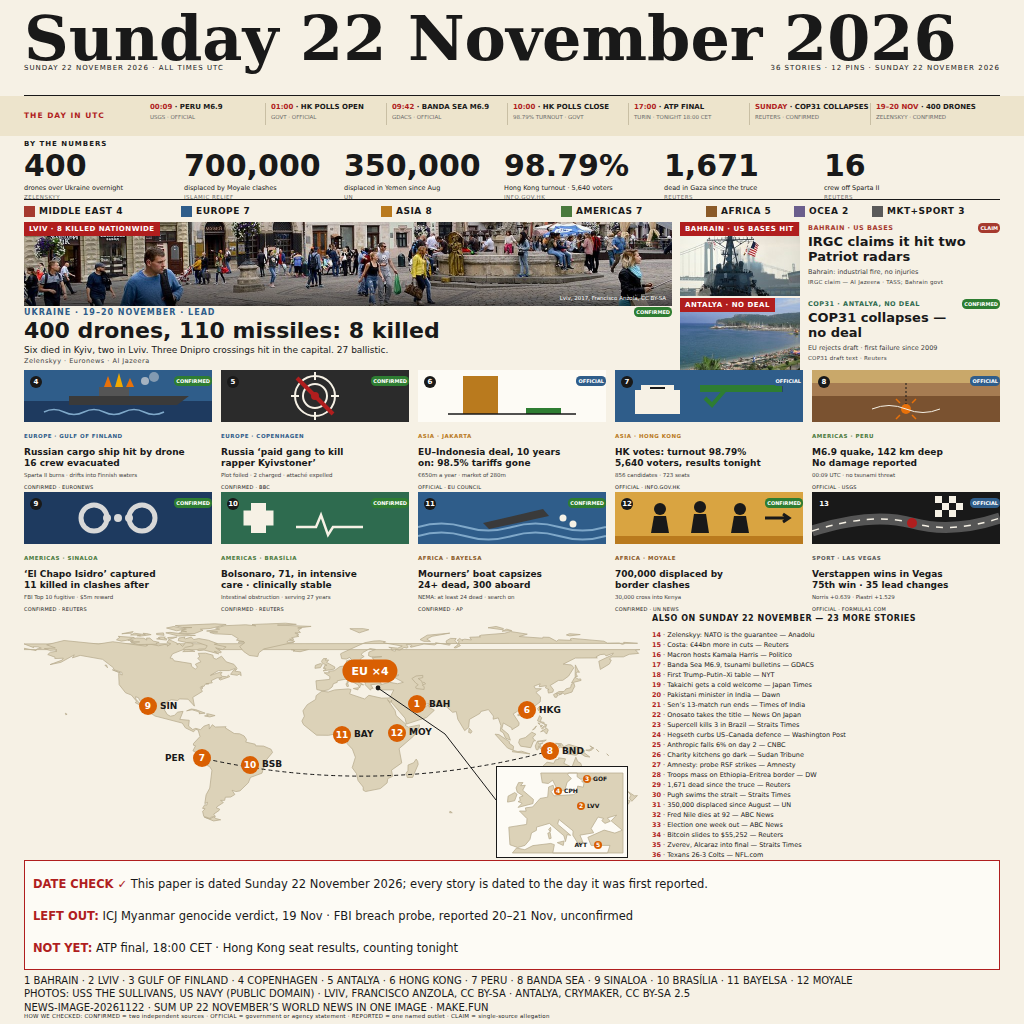
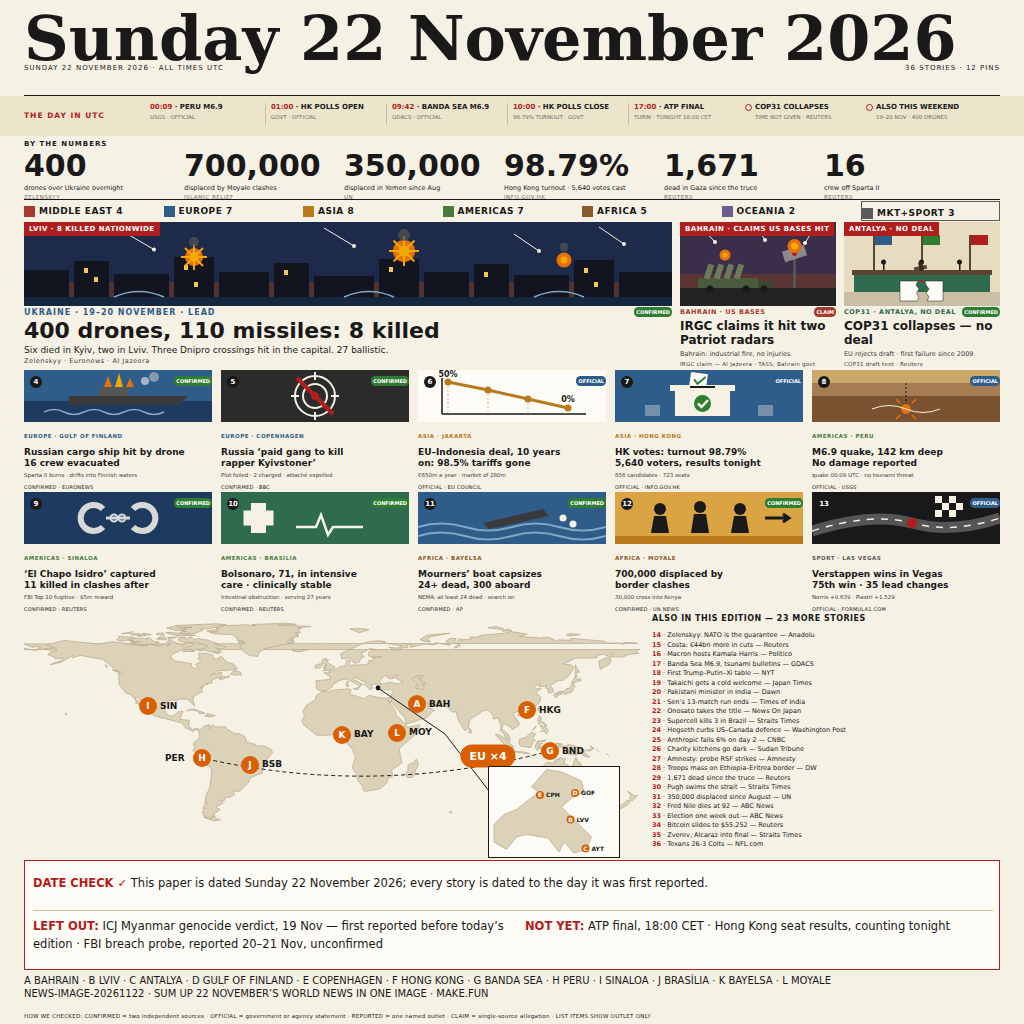
v6: 7 blockers + 10 should-fix — all 3 heroes as event illustrations, pins A-L, one-day timeline, Bahrain hedge, closed badge key, card 8 times, ICJ reason, DATE CHECK two-column, Europe one landmass, shared hero baselines; photos removed

diff --git a/build/front.html b/build/front.html
@@ -31,22 +31,19 @@ body { width:2048px; height:2048px; background:#F6F1E5; font-family:'DejaVu Sans
 .b-rep { background:#9C6E00; }
 .b-claim { background:#A63A2E; }
 .lead { position:absolute; left:48px; top:444px; width:1296px; height:296px; }
-.lead img { width:1296px; height:168px; display:block; object-fit:cover; }
-.lead .scrim { position:absolute; left:0; top:108px; width:1296px; height:60px; background:linear-gradient(to bottom, rgba(0,0,0,0), rgba(0,0,0,0.55)); }
-.lead .credit { position:absolute; right:12px; top:146px; font-size:11px; color:#FFFFFF; }
+.lead svg { display:block; }
 .lead .kick { position:absolute; left:0; top:172px; font-size:16px; font-weight:bold; letter-spacing:2px; white-space:nowrap; }
 .lead .bdg { top:170px; right:0; }
 .lead .head { position:absolute; left:0; top:194px; font-size:44px; font-weight:bold; line-height:48px; white-space:nowrap; }
 .lead .dek { position:absolute; left:0; top:246px; font-size:18px; white-space:nowrap; }
 .lead .src { position:absolute; left:0; top:270px; font-size:13px; color:#404040; letter-spacing:1px; white-space:nowrap; }
-.sec { position:absolute; width:240px; height:148px; }
-.sec img { width:240px; height:148px; display:block; object-fit:cover; }
-.sect { position:absolute; width:384px; height:148px; }
-.sect .kick { position:absolute; left:0; top:4px; font-size:13px; font-weight:bold; letter-spacing:1px; white-space:nowrap; }
-.sect .bdg { top:2px; right:0; }
-.sect .head { position:absolute; left:0; top:24px; font-size:26px; font-weight:bold; line-height:30px; }
-.sect .det { position:absolute; left:0; top:92px; font-size:13px; color:#404040; white-space:nowrap; }
-.sect .src { position:absolute; left:0; top:114px; font-size:11px; color:#404040; letter-spacing:0.5px; white-space:nowrap; }
+.rhero { position:absolute; width:312px; height:296px; }
+.rhero svg { display:block; }
+.rhero .kick { position:absolute; left:0; top:172px; font-size:13px; font-weight:bold; letter-spacing:1px; white-space:nowrap; }
+.rhero .bdg { top:170px; right:0; }
+.rhero .head { position:absolute; left:0; top:194px; width:312px; font-size:24px; font-weight:bold; line-height:28px; }
+.rhero .det { position:absolute; left:0; top:256px; font-size:13px; color:#404040; white-space:nowrap; }
+.rhero .src { position:absolute; left:0; top:278px; font-size:11px; color:#404040; letter-spacing:0.5px; white-space:nowrap; }
 .bcard { position:absolute; width:376px; height:244px; }
 .bcard svg { display:block; }
 .bcard .nb { position:absolute; left:12px; top:12px; width:24px; height:24px; border-radius:50%; background:#191919; color:#FFFFFF; font-size:14px; font-weight:bold; text-align:center; line-height:24px; }
@@ -65,8 +62,9 @@ body { width:2048px; height:2048px; background:#F6F1E5; font-family:'DejaVu Sans
 .dc { position:absolute; left:48px; top:1720px; width:1952px; height:220px; border:3px solid #B01E1E; background:#FDFBF5; }
 .dc .l { position:absolute; left:16px; font-size:23px; white-space:nowrap; }
 .dc .l b { color:#B01E1E; }
-.dc .col { position:absolute; top:104px; width:950px; font-size:22px; line-height:32px; }
+.dc .col { position:absolute; top:112px; width:950px; font-size:23px; line-height:36px; }
 .dc .col b { color:#B01E1E; }
+.dc .rule { position:absolute; left:16px; top:98px; width:1920px; border-top:1px solid #C9BFA4; }
 .foot { position:absolute; left:48px; font-size:20px; line-height:32px; white-space:nowrap; }
 </style></head><body>
 
@@ -108,29 +106,29 @@ body { width:2048px; height:2048px; background:#F6F1E5; font-family:'DejaVu Sans
 
 <!-- HEROES 444-740 -->
 <div class="lead">
-  <img src="lead_lviv.jpg" alt="Lviv street">
+  <svg width="1296" height="168" viewBox="0 0 1296 168"><rect width="1296" height="168" fill="#1E2A4A"/><rect y="120" width="1296" height="48" fill="#7A3B1E" opacity="0.55"/><g fill="#12141F"><rect x="0" y="96" width="90" height="72"/><rect x="100" y="78" width="70" height="90"/><rect x="180" y="104" width="110" height="64"/><rect x="300" y="70" width="80" height="98"/><rect x="390" y="100" width="100" height="68"/><rect x="500" y="82" width="70" height="86"/><rect x="580" y="108" width="120" height="60"/><rect x="710" y="74" width="80" height="94"/><rect x="800" y="100" width="90" height="68"/><rect x="900" y="84" width="70" height="84"/><rect x="980" y="106" width="110" height="62"/><rect x="1100" y="76" width="80" height="92"/><rect x="1190" y="100" width="106" height="68"/></g><g fill="#F2C94C"><rect x="120" y="92" width="8" height="10"/><rect x="140" y="110" width="8" height="10"/><rect x="320" y="86" width="8" height="10"/><rect x="340" y="120" width="8" height="10"/><rect x="520" y="96" width="8" height="10"/><rect x="730" y="90" width="8" height="10"/><rect x="920" y="100" width="8" height="10"/><rect x="1120" y="92" width="8" height="10"/><rect x="1140" y="120" width="8" height="10"/></g><rect y="150" width="1296" height="18" fill="#16283F"/><g stroke="#7FA8C9" stroke-width="3" fill="none"><path d="M180 150 Q230 128 280 150"/><path d="M640 150 Q690 128 740 150"/><path d="M1020 150 Q1070 128 1120 150"/></g><g stroke="#F6F1E5" stroke-width="2"><line x1="200" y1="20" x2="260" y2="55"/><line x1="600" y1="12" x2="660" y2="48"/><line x1="980" y1="24" x2="1030" y2="58"/><line x1="1150" y1="10" x2="1200" y2="44"/></g><g fill="#F6F1E5"><circle cx="260" cy="55" r="4"/><circle cx="660" cy="48" r="4"/><circle cx="1030" cy="58" r="4"/><circle cx="1200" cy="44" r="4"/></g><g><circle cx="340" cy="70" r="18" fill="#E8710A"/><circle cx="340" cy="70" r="9" fill="#F2A900"/><path d="M340 44 L340 96 M314 70 L366 70 M322 52 L358 88 M358 52 L322 88" stroke="#F2A900" stroke-width="4"/><circle cx="760" cy="58" r="22" fill="#E8710A"/><circle cx="760" cy="58" r="11" fill="#F2A900"/><path d="M760 28 L760 88 M730 58 L790 58 M739 37 L781 79 M781 37 L739 79" stroke="#F2A900" stroke-width="4"/><circle cx="1080" cy="76" r="15" fill="#E8710A"/><circle cx="1080" cy="76" r="7" fill="#F2A900"/></g><g fill="#555555" opacity="0.7"><circle cx="340" cy="40" r="10"/><circle cx="760" cy="26" r="12"/><circle cx="1080" cy="50" r="9"/></g></svg>
   <div class="banner">LVIV &middot; 8 KILLED NATIONWIDE</div>
-  <div class="scrim"></div>
-  <div class="credit">Lviv, 2017, Francisco Anzola, CC BY-SA</div>
   <div class="kick" style="color:#2F5D8A;">UKRAINE &middot; 19&ndash;20 NOVEMBER &middot; LEAD</div>
   <div class="bdg b-conf">CONFIRMED</div>
   <div class="head">400 drones, 110 missiles: 8 killed</div>
   <div class="dek">Six died in Kyiv, two in Lviv. Three Dnipro crossings hit in the capital. 27 ballistic.</div>
   <div class="src">Zelenskyy &middot; Euronews &middot; Al Jazeera</div>
 </div>
-<div class="sec" style="left:1360px; top:444px;"><img src="sec_bahrain.jpg" alt="USS The Sullivans"><div class="banner">BAHRAIN &middot; US BASES HIT</div></div>
-<div class="sect" style="left:1616px; top:444px;">
+<div class="rhero" style="left:1360px; top:444px;">
+  <svg width="312" height="168" viewBox="0 0 312 168"><rect width="312" height="168" fill="#3A2E4A"/><rect y="104" width="312" height="64" fill="#7A3B1E" opacity="0.5"/><rect y="132" width="312" height="36" fill="#232323"/><g><rect x="36" y="112" width="120" height="20" fill="#4A5A3D"/><rect x="156" y="118" width="28" height="14" fill="#3A4A2E"/><circle cx="60" cy="134" r="7" fill="#191919"/><circle cx="132" cy="134" r="7" fill="#191919"/><circle cx="168" cy="134" r="7" fill="#191919"/><g fill="#6B7A5A"><rect x="52" y="84" width="12" height="30" transform="rotate(18 58 99)"/><rect x="72" y="84" width="12" height="30" transform="rotate(18 78 99)"/><rect x="92" y="84" width="12" height="30" transform="rotate(18 98 99)"/><rect x="112" y="84" width="12" height="30" transform="rotate(18 118 99)"/></g></g><g><rect x="226" y="70" width="6" height="62" fill="#555555"/><rect x="206" y="52" width="46" height="22" fill="#8A8A8A" transform="rotate(-18 229 63)"/><circle cx="229" cy="63" r="5" fill="#B01E1E"/></g><g stroke="#F6F1E5" stroke-width="2"><line x1="40" y1="8" x2="70" y2="40"/><line x1="150" y1="4" x2="170" y2="36"/><line x1="270" y1="10" x2="250" y2="42"/></g><g fill="#F6F1E5"><circle cx="70" cy="40" r="4"/><circle cx="170" cy="36" r="4"/><circle cx="250" cy="42" r="4"/></g><g><circle cx="229" cy="48" r="14" fill="#E8710A"/><circle cx="229" cy="48" r="7" fill="#F2A900"/><circle cx="90" cy="66" r="11" fill="#E8710A"/><circle cx="90" cy="66" r="5" fill="#F2A900"/></g></svg>
+  <div class="banner">BAHRAIN &middot; CLAIMS US BASES HIT</div>
   <div class="kick" style="color:#A63A2E;">BAHRAIN &middot; US BASES</div>
   <div class="bdg b-claim">CLAIM</div>
-  <div class="head">IRGC claims it hit two<br>Patriot radars</div>
+  <div class="head">IRGC claims it hit two Patriot radars</div>
   <div class="det">Bahrain: industrial fire, no injuries</div>
   <div class="src">IRGC claim &mdash; Al Jazeera &middot; TASS; Bahrain govt</div>
 </div>
-<div class="sec" style="left:1360px; top:596px;"><img src="sec_cop31.jpg" alt="Antalya coast"><div class="banner">ANTALYA &middot; NO DEAL</div></div>
-<div class="sect" style="left:1616px; top:596px;">
+<div class="rhero" style="left:1688px; top:444px;">
+  <svg width="312" height="168" viewBox="0 0 312 168"><rect width="312" height="168" fill="#E8DCC0"/><rect y="140" width="312" height="28" fill="#C9BFA4"/><g><rect x="58" y="26" width="4" height="70" fill="#5A4632"/><rect x="62" y="26" width="34" height="20" fill="#2F5D8A"/><rect x="154" y="26" width="4" height="70" fill="#5A4632"/><rect x="158" y="26" width="34" height="20" fill="#2E7D32"/><rect x="250" y="26" width="4" height="70" fill="#5A4632"/><rect x="254" y="26" width="34" height="20" fill="#B01E1E"/></g><rect x="16" y="96" width="280" height="10" fill="#5A4632"/><rect x="20" y="106" width="272" height="34" fill="#2E6B4F"/><g fill="#191919"><rect x="78" y="82" width="3" height="14"/><circle cx="79" cy="80" r="5"/><rect x="154" y="82" width="3" height="14"/><circle cx="155" cy="80" r="5"/><rect x="230" y="82" width="3" height="14"/><circle cx="231" cy="80" r="5"/></g><g><rect x="140" y="88" width="26" height="8" fill="#5A4632" transform="rotate(-12 153 92)"/><rect x="150" y="80" width="8" height="18" fill="#3A2A1A" transform="rotate(-12 154 89)"/></g><g fill="#FDFBF5" stroke="#191919" stroke-width="1"><path d="M112 118 L148 118 L144 126 L150 134 L145 142 L150 150 L146 158 L112 158 Z"/><path d="M162 118 L198 118 L198 158 L166 158 L170 150 L164 142 L170 134 L164 126 Z"/></g><path d="M150 118 L162 118" stroke="#B01E1E" stroke-width="3"/></svg>
+  <div class="banner">ANTALYA &middot; NO DEAL</div>
   <div class="kick" style="color:#2E6B4F;">COP31 &middot; ANTALYA, NO DEAL</div>
   <div class="bdg b-conf">CONFIRMED</div>
-  <div class="head">COP31 collapses &mdash;<br>no deal</div>
+  <div class="head">COP31 collapses &mdash; no deal</div>
   <div class="det">EU rejects draft &middot; first failure since 2009</div>
   <div class="src">COP31 draft text &middot; Reuters</div>
 </div>
@@ -153,7 +151,7 @@ body { width:2048px; height:2048px; background:#F6F1E5; font-family:'DejaVu Sans
 <div class="so">CONFIRMED &middot; BBC</div>
 </div>
 <div class="bcard" style="left:836px; top:740px;">
-<svg width="376" height="104" viewBox="0 0 376 104"><rect width="376" height="104" fill="#FDFBF5"/><rect x="90" y="12" width="70" height="76" fill="#B97A1E"/><rect x="216" y="76" width="70" height="12" fill="#2E7D32"/><path d="M60 88 L316 88" stroke="#191919" stroke-width="3"/></svg>
+<svg width="376" height="104" viewBox="0 0 376 104"><rect width="376" height="104" fill="#FDFBF5"/><path d="M48 88 L336 88" stroke="#191919" stroke-width="3"/><path d="M48 16 L48 88" stroke="#191919" stroke-width="3"/><path d="M60 24 L60 88 M140 40 L140 88 M220 58 L220 88 M300 76 L300 88" stroke="#B97A1E" stroke-width="2" stroke-dasharray="4 4" opacity="0.5"/><path d="M60 24 L140 40 L220 58 L300 76" stroke="#B97A1E" stroke-width="6" fill="none"/><g fill="#B97A1E"><circle cx="60" cy="24" r="7"/><circle cx="140" cy="40" r="7"/><circle cx="220" cy="58" r="7"/><circle cx="300" cy="76" r="7"/></g><g font-family="DejaVu Sans" font-size="16" font-weight="bold" fill="#191919"><text x="60" y="14" text-anchor="middle">50%</text><text x="300" y="64" text-anchor="middle">0%</text></g></svg>
 <div class="nb">6</div><div class="bdg b-off">OFFICIAL</div>
 <div class="kick" style="color:#B97A1E;">ASIA &middot; JAKARTA</div>
 <div class="head">EU&ndash;Indonesia deal, 10 years<br>on: 98.5% tariffs gone</div>
@@ -161,7 +159,7 @@ body { width:2048px; height:2048px; background:#F6F1E5; font-family:'DejaVu Sans
 <div class="so">OFFICIAL &middot; EU COUNCIL</div>
 </div>
 <div class="bcard" style="left:1230px; top:740px;">
-<svg width="376" height="104" viewBox="0 0 376 104"><rect width="376" height="104" fill="#2F5D8A"/><rect x="40" y="40" width="90" height="48" fill="#F6F1E5"/><rect x="52" y="30" width="66" height="12" fill="#F6F1E5"/><rect x="70" y="34" width="30" height="4" fill="#191919"/><rect x="170" y="30" width="166" height="14" fill="#191919" opacity="0.35"/><rect x="170" y="30" width="164" height="14" fill="#2E7D32"/><path d="M180 56 l14 14 l26 -30" stroke="#2E7D32" stroke-width="8" fill="none"/></svg>
+<svg width="376" height="104" viewBox="0 0 376 104"><rect width="376" height="104" fill="#2F5D8A"/><rect x="150" y="6" width="34" height="30" fill="#FDFBF5" transform="rotate(8 167 21)"/><path d="M158 20 l8 8 l14 -16" stroke="#2E7D32" stroke-width="4" fill="none" transform="rotate(8 167 21)"/><rect x="110" y="30" width="130" height="12" fill="#F6F1E5"/><rect x="150" y="32" width="50" height="4" fill="#191919"/><rect x="120" y="42" width="110" height="50" fill="#F6F1E5"/><circle cx="175" cy="67" r="17" fill="#2E7D32"/><path d="M166 67 l7 7 l13 -14" stroke="#F6F1E5" stroke-width="5" fill="none"/><rect x="60" y="70" width="30" height="22" fill="#F6F1E5" opacity="0.35"/><rect x="286" y="70" width="30" height="22" fill="#F6F1E5" opacity="0.35"/></svg>
 <div class="nb">7</div><div class="bdg b-off">OFFICIAL</div>
 <div class="kick" style="color:#B97A1E;">ASIA &middot; HONG KONG</div>
 <div class="head">HK votes: turnout 98.79%<br>5,640 voters, results tonight</div>
@@ -179,7 +177,7 @@ body { width:2048px; height:2048px; background:#F6F1E5; font-family:'DejaVu Sans
 
 <!-- BIG CARDS 9-13 : 984-1228 -->
 <div class="bcard" style="left:48px; top:984px;">
-<svg width="376" height="104" viewBox="0 0 376 104"><rect width="376" height="104" fill="#1E3A5F"/><circle cx="140" cy="52" r="26" fill="none" stroke="#D8D8D8" stroke-width="10"/><circle cx="236" cy="52" r="26" fill="none" stroke="#D8D8D8" stroke-width="10"/><circle cx="166" cy="52" r="8" fill="#D8D8D8"/><circle cx="188" cy="52" r="8" fill="#D8D8D8"/><circle cx="210" cy="52" r="8" fill="#D8D8D8"/></svg>
+<svg width="376" height="104" viewBox="0 0 376 104"><rect width="376" height="104" fill="#1E3A5F"/><path d="M158,34 A26,26 0 1 0 158,70" stroke="#D8D8D8" stroke-width="12" fill="none"/><path d="M218,34 A26,26 0 1 1 218,70" stroke="#D8D8D8" stroke-width="12" fill="none"/><path d="M164,52 L212,52" stroke="#D8D8D8" stroke-width="6"/><g stroke="#D8D8D8" stroke-width="4" fill="none"><circle cx="180" cy="52" r="7"/><circle cx="196" cy="52" r="7"/></g></svg>
 <div class="nb">9</div><div class="bdg b-conf">CONFIRMED</div>
 <div class="kick" style="color:#4A7A3D;">AMERICAS &middot; SINALOA</div>
 <div class="head">&lsquo;El Chapo Isidro&rsquo; captured<br>11 killed in clashes after</div>
@@ -228,7 +226,7 @@ body { width:2048px; height:2048px; background:#F6F1E5; font-family:'DejaVu Sans
   <circle cx="708" cy="148" r="4.8" fill="#191919"/>
 </svg>
 <div class="pin" style="left:834px; top:1408px;">A</div><div class="plab" style="left:858px; top:1398px;">BAH</div>
-<div class="badge" style="left:1108px; top:1512px;">EU &times;4</div>
+<div class="badge" style="left:976px; top:1512px;">EU &times;4</div>
 <div class="pin" style="left:1054px; top:1420px;">F</div><div class="plab" style="left:1078px; top:1410px;">HKG</div>
 <div class="pin" style="left:404px; top:1516px;">H</div><div class="plab" style="left:330px; top:1506px;">PER</div>
 <div class="pin" style="left:1100px; top:1502px;">G</div><div class="plab" style="left:1124px; top:1492px;">BND</div>
@@ -239,45 +237,46 @@ body { width:2048px; height:2048px; background:#F6F1E5; font-family:'DejaVu Sans
 <!-- EUROPE INSET 992,1532 264x184 -->
 <div style="position:absolute; left:976px; top:1532px; width:264px; height:184px; background:#FDFBF5; border:2px solid #191919;">
   <svg width="264" height="184" viewBox="0 0 264 184">
-    <path d="M5,179 L5,137 L24,116 L48,110 L72,89 L96,68 L72,63 L100,40 L134,0 L144,11 L192,32 L192,53 L163,63 L139,84 L182,132 L212,148 L196,170 L158,168 L134,158 L125,168 L106,147 L67,142 L62,147 L38,174 Z" fill="#DCD2B8" stroke="#B7AB8E" stroke-width="1.5"/>
-    <g fill="#D95F02"><circle cx="98" cy="70" r="8"/><circle cx="168" cy="53" r="8"/><circle cx="163" cy="105" r="8"/><circle cx="192" cy="168" r="8"/></g>
+    <path d="M10,150 L10,115 L30,95 L55,85 L80,65 L100,50 L85,40 L115,5 L145,10 L185,28 L190,50 L165,62 L145,80 L180,115 L205,140 L195,165 L170,172 L150,150 L140,170 L118,142 L75,135 L55,140 L35,165 Z" fill="#DCD2B8" stroke="#B7AB8E" stroke-width="1.5"/>
+    <g fill="#D95F02"><circle cx="102" cy="56" r="8"/><circle cx="172" cy="52" r="8"/><circle cx="163" cy="105" r="8"/><circle cx="193" cy="163" r="8"/></g>
     <g font-family="DejaVu Sans" font-size="12" font-weight="bold" fill="#191919">
-      <text x="110" y="74">CPH</text><text x="180" y="57">GOF</text><text x="175" y="109">LVV</text><text x="204" y="172">AYT</text>
+      <text x="114" y="60">CPH</text><text x="184" y="56">GOF</text><text x="175" y="109">LVV</text><text x="205" y="167">AYT</text>
     </g>
-  <g font-family="DejaVu Sans" font-size="12" font-weight="bold" fill="#FFFFFF" text-anchor="middle"><text x="98" y="74">E</text><text x="168" y="57">D</text><text x="163" y="109">B</text><text x="192" y="172">C</text></g></svg>
+  <g font-family="DejaVu Sans" font-size="12" font-weight="bold" fill="#FFFFFF" text-anchor="middle"><text x="102" y="60">E</text><text x="172" y="56">D</text><text x="163" y="109">B</text><text x="193" y="167">C</text></g></svg>
 </div>
 
 <!-- ALSO ON LIST 14-36 -->
 <div class="lst">
 <div class="lh">ALSO IN THIS EDITION &mdash; 23 MORE STORIES</div>
 <div class="row" style="top:34px;"><span class="n">14</span> &middot; Zelenskyy: NATO is the guarantee &mdash; Anadolu</div>
-<div class="row" style="top:54px;"><span class="n">15</span> &middot; Costa: &euro;44bn more in cuts &mdash; Reuters</div>
-<div class="row" style="top:74px;"><span class="n">16</span> &middot; Macron hosts Kamala Harris &mdash; Politico</div>
-<div class="row" style="top:94px;"><span class="n">17</span> &middot; Banda Sea M6.9, tsunami bulletins &mdash; GDACS</div>
-<div class="row" style="top:114px;"><span class="n">18</span> &middot; First Trump&ndash;Putin&ndash;Xi table &mdash; NYT</div>
-<div class="row" style="top:134px;"><span class="n">19</span> &middot; Takaichi gets a cold welcome &mdash; Japan Times</div>
-<div class="row" style="top:154px;"><span class="n">20</span> &middot; Pakistani minister in India &mdash; Dawn</div>
-<div class="row" style="top:174px;"><span class="n">21</span> &middot; Sen&rsquo;s 13-match run ends &mdash; Times of India</div>
-<div class="row" style="top:194px;"><span class="n">22</span> &middot; Onosato takes the title &mdash; News On Japan</div>
-<div class="row" style="top:214px;"><span class="n">23</span> &middot; Supercell kills 3 in Brazil &mdash; Straits Times</div>
-<div class="row" style="top:234px;"><span class="n">24</span> &middot; Hegseth curbs US&ndash;Canada defence &mdash; Washington Post</div>
-<div class="row" style="top:254px;"><span class="n">25</span> &middot; Anthropic falls 6% on day 2 &mdash; CNBC</div>
-<div class="row" style="top:274px;"><span class="n">26</span> &middot; Charity kitchens go dark &mdash; Sudan Tribune</div>
-<div class="row" style="top:294px;"><span class="n">27</span> &middot; Amnesty: probe RSF strikes &mdash; Amnesty</div>
-<div class="row" style="top:314px;"><span class="n">28</span> &middot; Troops mass on Ethiopia&ndash;Eritrea border &mdash; DW</div>
-<div class="row" style="top:334px;"><span class="n">29</span> &middot; 1,671 dead since the truce &mdash; Reuters</div>
-<div class="row" style="top:354px;"><span class="n">30</span> &middot; Pugh swims the strait &mdash; Straits Times</div>
-<div class="row" style="top:374px;"><span class="n">31</span> &middot; 350,000 displaced since August &mdash; UN</div>
-<div class="row" style="top:394px;"><span class="n">32</span> &middot; Fred Nile dies at 92 &mdash; ABC News</div>
-<div class="row" style="top:414px;"><span class="n">33</span> &middot; Election one week out &mdash; ABC News</div>
-<div class="row" style="top:434px;"><span class="n">34</span> &middot; Bitcoin slides to $55,252 &mdash; Reuters</div>
-<div class="row" style="top:454px;"><span class="n">35</span> &middot; Zverev, Alcaraz into final &mdash; Straits Times</div>
-<div class="row" style="top:474px;"><span class="n">36</span> &middot; Texans 26-3 Colts &mdash; NFL.com</div>
+<div class="row" style="top:53px;"><span class="n">15</span> &middot; Costa: &euro;44bn more in cuts &mdash; Reuters</div>
+<div class="row" style="top:72px;"><span class="n">16</span> &middot; Macron hosts Kamala Harris &mdash; Politico</div>
+<div class="row" style="top:91px;"><span class="n">17</span> &middot; Banda Sea M6.9, tsunami bulletins &mdash; GDACS</div>
+<div class="row" style="top:110px;"><span class="n">18</span> &middot; First Trump&ndash;Putin&ndash;Xi table &mdash; NYT</div>
+<div class="row" style="top:129px;"><span class="n">19</span> &middot; Takaichi gets a cold welcome &mdash; Japan Times</div>
+<div class="row" style="top:148px;"><span class="n">20</span> &middot; Pakistani minister in India &mdash; Dawn</div>
+<div class="row" style="top:167px;"><span class="n">21</span> &middot; Sen&rsquo;s 13-match run ends &mdash; Times of India</div>
+<div class="row" style="top:186px;"><span class="n">22</span> &middot; Onosato takes the title &mdash; News On Japan</div>
+<div class="row" style="top:205px;"><span class="n">23</span> &middot; Supercell kills 3 in Brazil &mdash; Straits Times</div>
+<div class="row" style="top:224px;"><span class="n">24</span> &middot; Hegseth curbs US&ndash;Canada defence &mdash; Washington Post</div>
+<div class="row" style="top:243px;"><span class="n">25</span> &middot; Anthropic falls 6% on day 2 &mdash; CNBC</div>
+<div class="row" style="top:262px;"><span class="n">26</span> &middot; Charity kitchens go dark &mdash; Sudan Tribune</div>
+<div class="row" style="top:281px;"><span class="n">27</span> &middot; Amnesty: probe RSF strikes &mdash; Amnesty</div>
+<div class="row" style="top:300px;"><span class="n">28</span> &middot; Troops mass on Ethiopia&ndash;Eritrea border &mdash; DW</div>
+<div class="row" style="top:319px;"><span class="n">29</span> &middot; 1,671 dead since the truce &mdash; Reuters</div>
+<div class="row" style="top:338px;"><span class="n">30</span> &middot; Pugh swims the strait &mdash; Straits Times</div>
+<div class="row" style="top:357px;"><span class="n">31</span> &middot; 350,000 displaced since August &mdash; UN</div>
+<div class="row" style="top:376px;"><span class="n">32</span> &middot; Fred Nile dies at 92 &mdash; ABC News</div>
+<div class="row" style="top:395px;"><span class="n">33</span> &middot; Election one week out &mdash; ABC News</div>
+<div class="row" style="top:414px;"><span class="n">34</span> &middot; Bitcoin slides to $55,252 &mdash; Reuters</div>
+<div class="row" style="top:433px;"><span class="n">35</span> &middot; Zverev, Alcaraz into final &mdash; Straits Times</div>
+<div class="row" style="top:452px;"><span class="n">36</span> &middot; Texans 26-3 Colts &mdash; NFL.com</div>
 </div>
 
 <!-- DATE CHECK 1720-1940 -->
 <div class="dc">
   <div class="l" style="top:30px;"><b>DATE CHECK &check;</b> This paper is dated Sunday 22 November 2026; every story is dated to the day it was first reported.</div>
+  <div class="rule"></div>
   <div class="col" style="left:16px;"><b>LEFT OUT:</b> ICJ Myanmar genocide verdict, 19 Nov &mdash; first reported before today&rsquo;s edition &middot; FBI breach probe, reported 20&ndash;21 Nov, unconfirmed</div>
   <div class="col" style="left:1000px;"><b>NOT YET:</b> ATP final, 18:00 CET &middot; Hong Kong seat results, counting tonight</div>
 </div>
